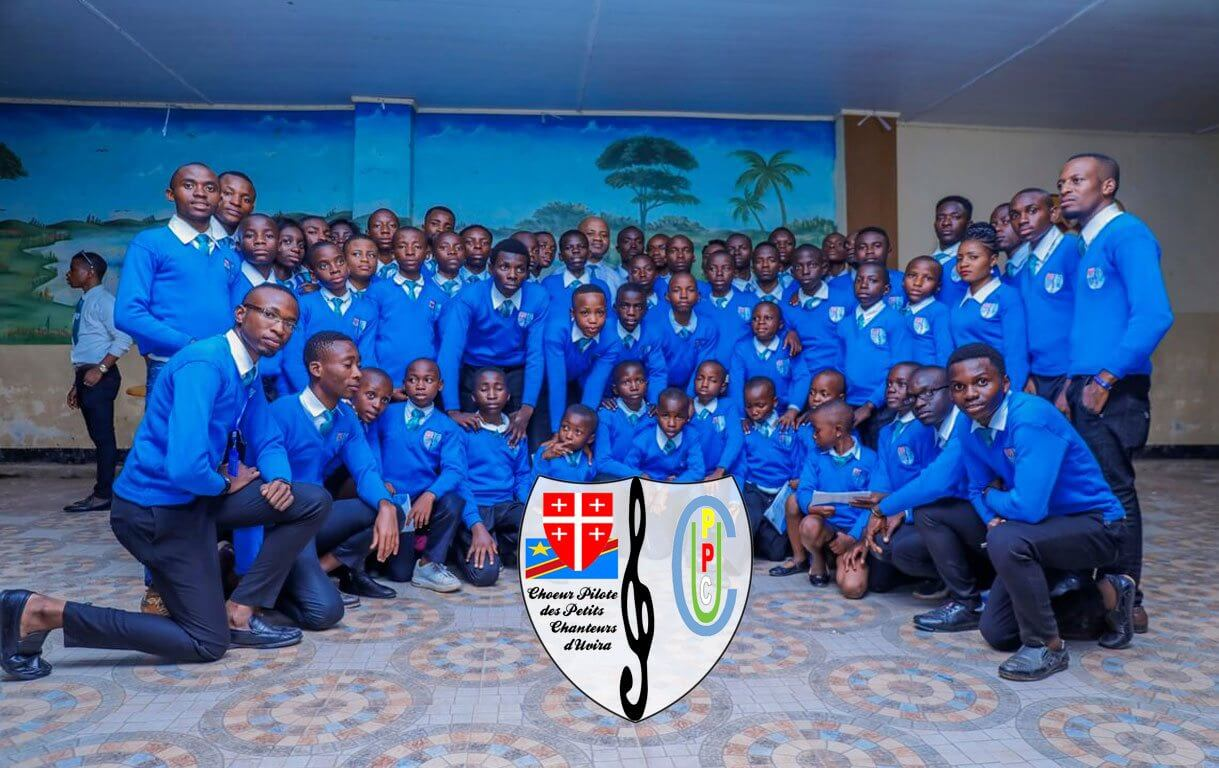
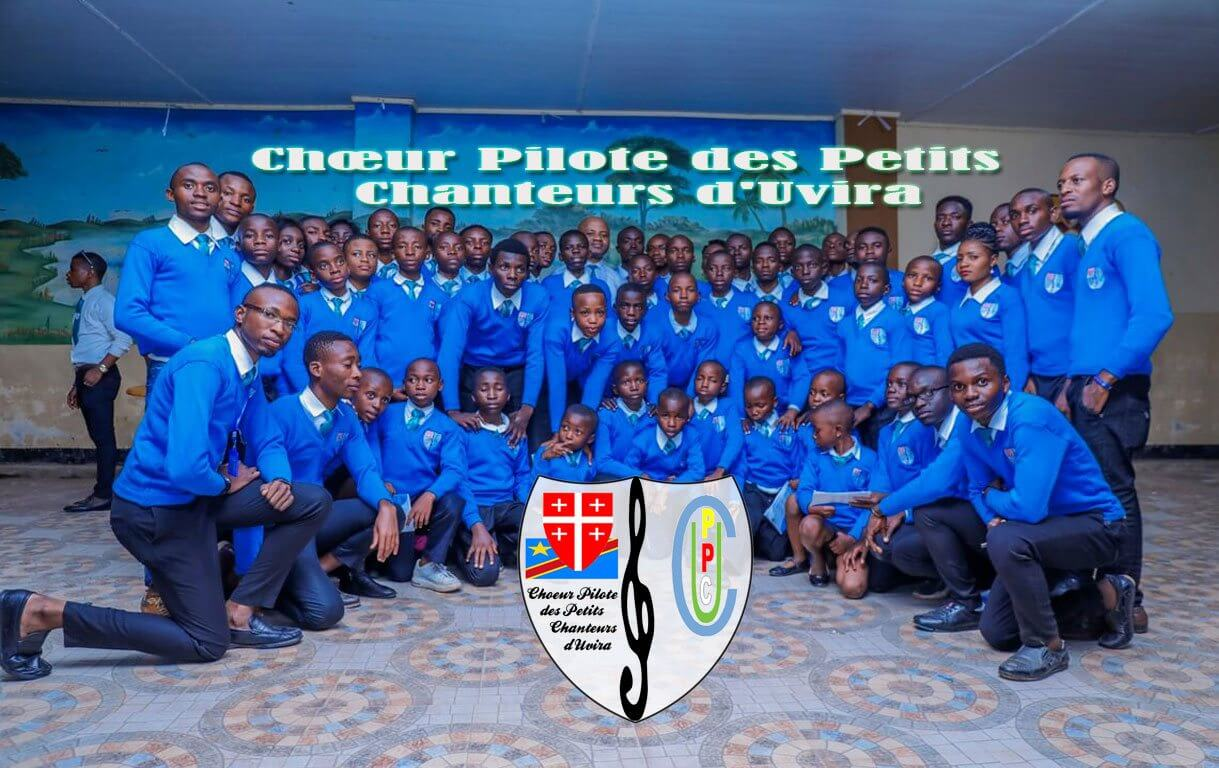
modification du design

Changed region(s): [[0.187, 0.1875, 0.8417, 0.2812]]

diff --git a/app/static/site/css/style.css b/app/static/site/css/style.css
@@ -501,7 +501,7 @@ button:focus {
 
 .banner_area .bg-parallax {
   background: url("../image/bn.jpg") no-repeat scroll center 0/cover;
-  opacity: 0.80;
+  /* opacity: 0.80; */
 }
 
 .banner_area .position {
